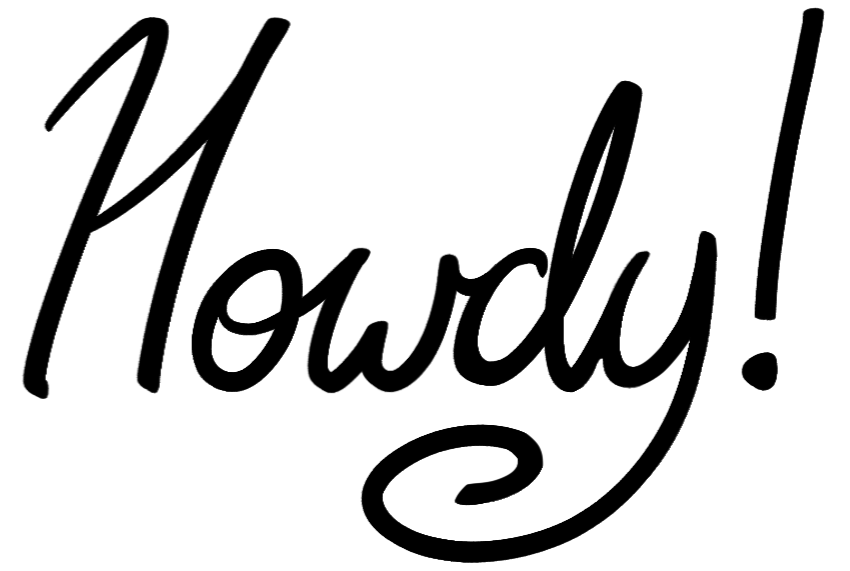
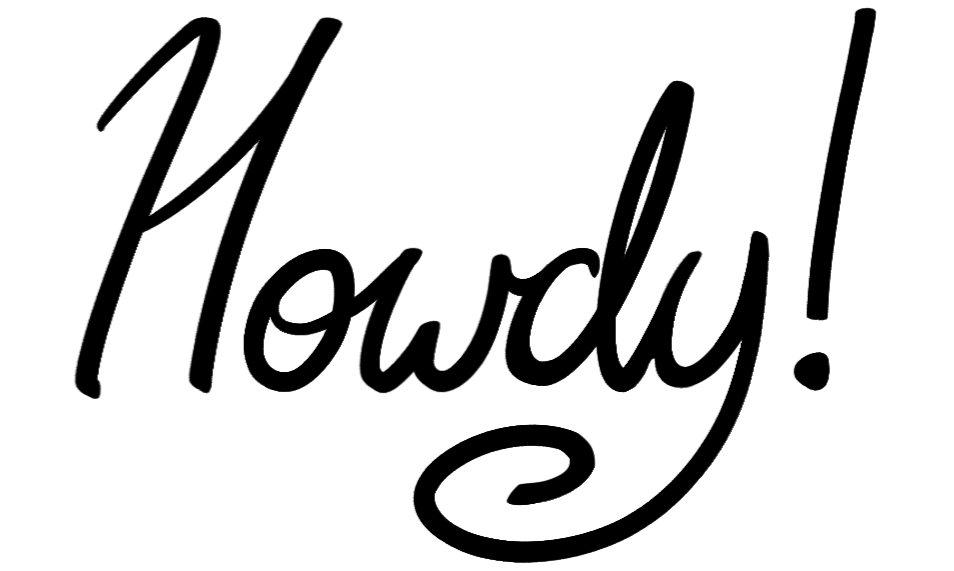
deleting carousel

diff --git a/script.js b/script.js
@@ -54,6 +54,7 @@ document.addEventListener("DOMContentLoaded", () => {
 
         var minWidth = 800;
         var oldWidth = document.documentElement.clientWidth;
+        var blurbDict = {};
 
         var listSize = personalData.length;
         var ind = 1;
@@ -64,6 +65,7 @@ document.addEventListener("DOMContentLoaded", () => {
         rightWingImg.addEventListener("click", () => alterIndex(1));
         
         handleResize();
+        updateCentralBlurb();
 
         function alterIndex(direction){
             if (direction == 0) return;
@@ -78,15 +80,22 @@ document.addEventListener("DOMContentLoaded", () => {
 
             centralBodyImg.src = personalData[ind]["link-sign"];
             centralBodySpan.textContent = personalData[ind]["title"];
-            listsToPara(blurbText, personalData[ind]["paragraphs"]);
             
             leftWingImg.src = personalData[leftInd]["link"];
             rightWingImg.src = personalData[rightInd]["link"];
 
+            updateCentralBlurb();
 
             if (newWidth <= minWidth) return;
             leftWingSpan.textContent = personalData[leftInd]["title"];
             rightWingSpan.textContent = personalData[rightInd]["title"];
+        }
+        function updateCentralBlurb(){
+            if (!(ind in blurbDict)){
+                blurbDict[ind] = listsToPara(personalData[ind]["paragraphs"]);
+            }
+            blurbText.replaceChildren();
+            blurbText.append(...blurbDict[ind]);
         }
         function handleResize() {
             var newWidth = document.documentElement.clientWidth;
@@ -118,11 +127,13 @@ document.addEventListener("DOMContentLoaded", () => {
     function modLoop(dangerIndex, modAmount) {
         return ((dangerIndex % modAmount) + modAmount) % modAmount;
     }
-    function listsToPara(parentDiv, list){
-        for (let item in list){
+    function listsToPara(list){
+        let returnList = [];
+        for (let index in list){
             var p = document.createElement('p');
-            p.innerHTML = item;
-            parentDiv.appendChild(p);
+            p.textContent = list[index];
+            returnList.push(p);
         }
+        return returnList;
     }
 });

diff --git a/index.html b/index.html
@@ -13,7 +13,7 @@
 <body>
     <div id = "header">
         <div id = "header-top">
-            <img id = "header-name" src=".\assets\misc\Placeholder Signature.png">
+            <img id = "header-name" src=".\assets\misc\signatures\digital-signature-1.png">
             <div id = "header-right">
                 <div id = "nav-menu-hor">
                     <!-- <div><a href="" target="_blank">About Me</a></div> -->
@@ -30,7 +30,16 @@
     </div>
 
     <div id = "personal-blurb">
-        <div id = "greeting" >Say Hello to...</div >
+        
+        <div id = "greeting" >Say Hello to...
+            <hr>
+        </div >
+        <div id = "personalities">
+            <img src=".\assets\misc\artist\artist.png"><br>
+            <img src=".\assets\misc\personal\personal.png"><br>
+            <img src=".\assets\misc\programmer\programmer.png"><br>
+        </div>
+
         <div id = "left-wing">
             <img src=".\assets\misc\programmer\programmer.png"><br>
             <span>The Programmer</span>
@@ -46,7 +55,13 @@
             <span>The Artist</span>
         </div>
         <div id = "blurb-text">
+            <p>Raindrops are falling on my head, and just like the guy whose feet are too big for his bed, nothing seems to fit. Those raindrops are falling on my head, they keep falling.</p>
 
+            <p>So I just did me some talking to the sun, and I said I didn't like the way he got things done, sleeping on the job. Those raindrops are falling on my head, they keep fallin'.</p>
+
+            <p>But there's one thing I know: the blues they send to meet me won't defeat me. It won't be long 'til happiness steps up to greet me.</p>
+
+            <p>Raindrops keep falling on my head, but that doesn't mean my eyes will soon be turning red. Crying's not for me, 'cause I'm never gonna stop the rain by complaining. Because I'm free, nothing's worrying me.</p>
         </div>
     </div>
 

diff --git a/styles/personal-blurb.css b/styles/personal-blurb.css
@@ -1,43 +1,67 @@
 #personal-blurb{
     display: grid;
-    width: 100%;
-    grid-template-rows: auto auto auto;
-    grid-template-columns: 1fr 28rem 1fr;
+    width: 80%;
+    padding: 4% 0rem 8% 0rem;
+    box-sizing: border-box;
+    grid-template-rows: auto auto fit-content;
+    grid-template-columns: 1fr 40% 1fr;
     justify-content: center;
     justify-items: center;
     align-items: center;
     text-align: center;
-    gap: 1rem;
+    row-gap: 2%;
     margin: 6rem 0 0 0;
+    box-shadow: 0 0.2rem 1rem rgba(0, 0, 0, 0.15);
+    border-radius: 6%;
 }
-#greeting{
-    grid-column: 1 / 4;
-    grid-row: 1 / 1;
-    font-size: 3.2rem;
-}
-#left-wing, #central-body, #right-wing{
-    cursor: pointer;
-    border-radius: 10%;
-    font-size: calc(1.6vw);
-}
-#left-wing img, #right-wing img{
-    height: auto;
-    width: 60%;
-}
-#central-body{
-    font-size: 2rem;
-}
-#central-body img{
+#personal-blurb img{
     height: auto;
     width: 100%;
-    border-radius: 10%;
+    cursor: pointer;
 
+}
+#greeting{
+    display: flex;
+    width: 80%;
+    flex-direction: column;
+    grid-column: 1 / 4;
+    grid-row: 1 / 1;
+    font-size: calc(4vw + .8rem);
+    padding: 0 2rem;
+    box-sizing: border-box;
+}
+#left-wing, #central-body, #right-wing{
+    border-radius: 10%;
+    font-size: calc(1.4vw);
+    width: 60%;
+}
+#left-wing{
+    justify-self: flex-end;
+}
+#right-wing{
+    justify-self: flex-start;
+}
+#central-body{
+    width: 100%;
+    font-size: calc(2vw + .4rem);
+    justify-content: space-between;
+}
+#central-body img{
+    border-radius: 10%;
 }
 #left-wing:hover, #central-body:hover, #right-wing:hover{
     cursor: pointer;
 }
 #blurb-text{
     display: flex;
+    flex-direction: column;
+    text-align: left;
+    width: 80%;
     grid-column: 1 / 4;
     grid-row: 3 / 4;
+    gap: 1rem;
+    font-size: calc(1.6vw + .1rem);
+}
+#blurb-text p{
+    margin: 0;
 }

diff --git a/styles/header-style.css b/styles/header-style.css
@@ -2,14 +2,15 @@
     display: grid;
     grid-template-rows: auto auto;
     grid-template-columns: auto;
-    position: sticky;
+    /* position: sticky; */
     align-items: center;
     top: 0;
     font-size: 1.4rem;
-    padding: 1rem 1rem;
+    padding: 1rem 2rem;
     width: 100%;
     background-color: var(--primary-bg-color);
-    border-bottom: .1rem solid color-mix(in srgb, var(--primary-txt-color) 50%, transparent);    box-sizing: border-box;
+    box-sizing: border-box;
+    /* border-bottom: .1rem solid color-mix(in srgb, var(--primary-txt-color) 50%, transparent);*/
 }
 #header-top{
     display: flex;
@@ -34,7 +35,7 @@
     animation: slideToRight .15s ease-out;
 }
 #header-name {
-    height: 1em;
+    height: 1.25em;
     width: auto;
 }
 #header-right {

diff --git a/style.css b/style.css
@@ -15,6 +15,7 @@ html{
 body{
     display: flex;
     flex-direction: column;
+    align-items: center;
     background-color: var(--primary-bg-color);
     color: var(--primary-txt-color);
     width: 100%;
@@ -34,4 +35,9 @@ button {
 a{
     text-decoration: none;
     color: inherit;
+}
+hr{
+    color: .1rem solid color-mix(in srgb, var(--primary-txt-color) 50%, transparent);
+    width: 100%;
+    margin: 0;
 }
